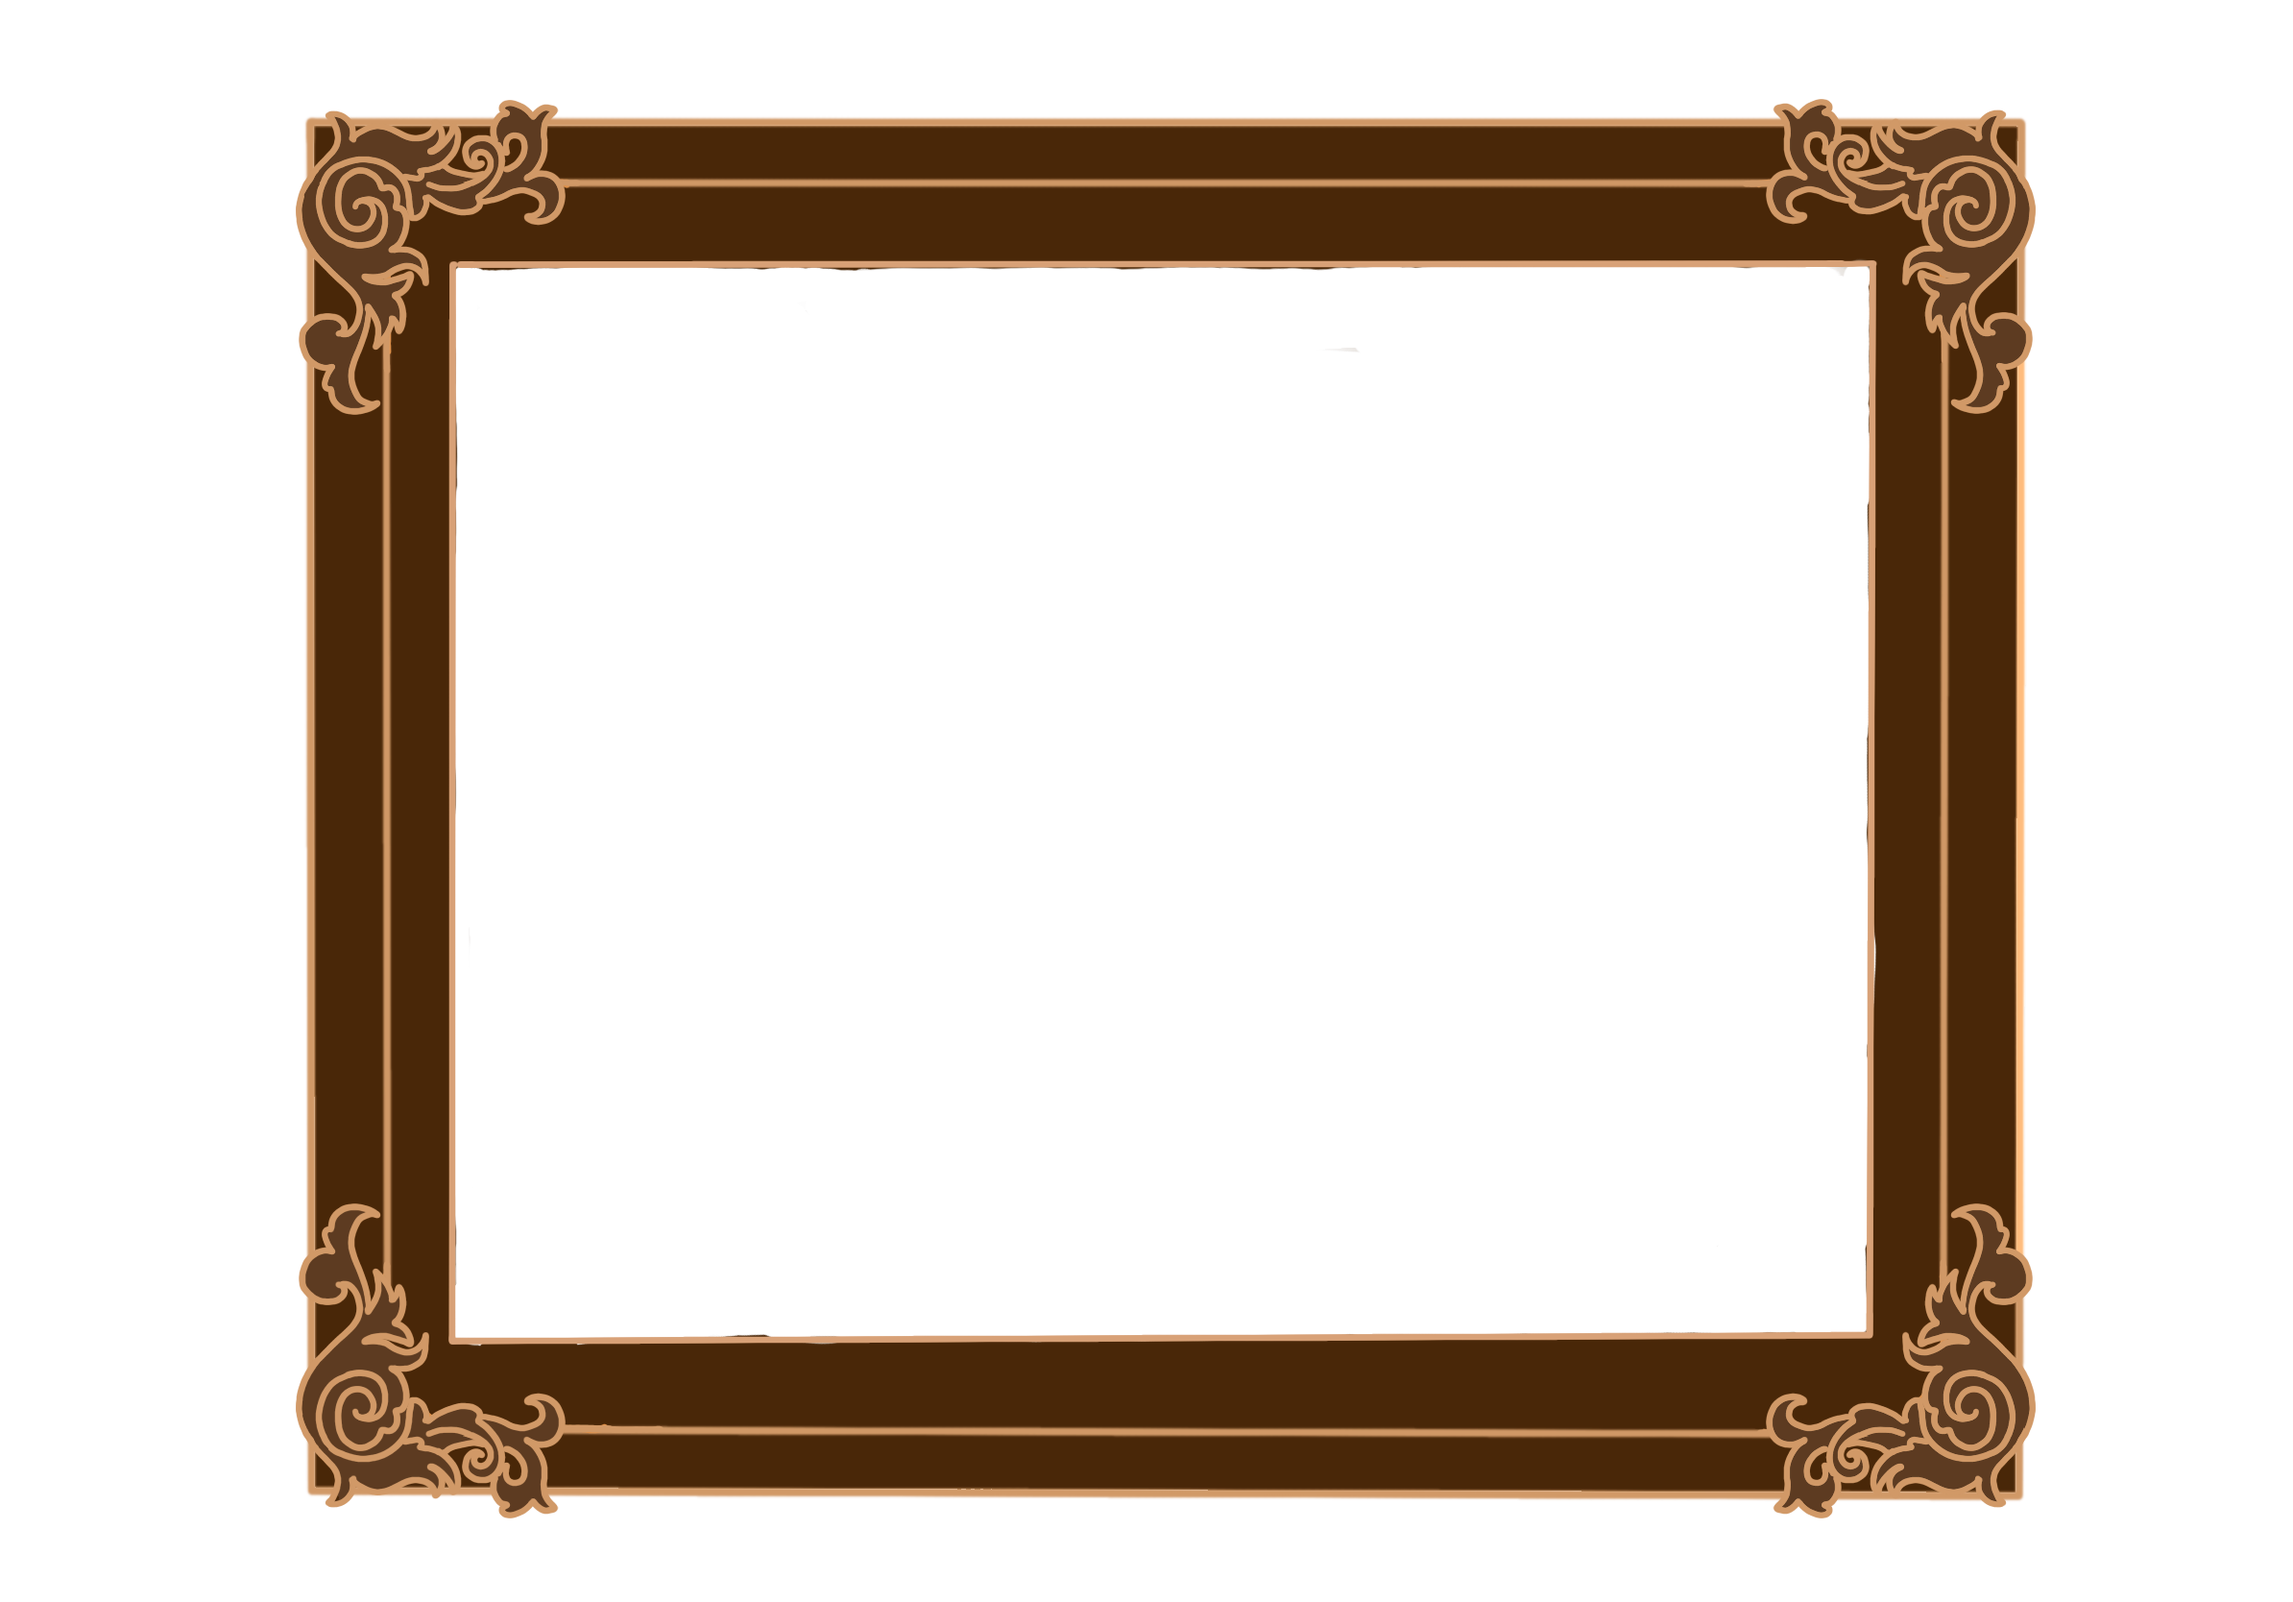
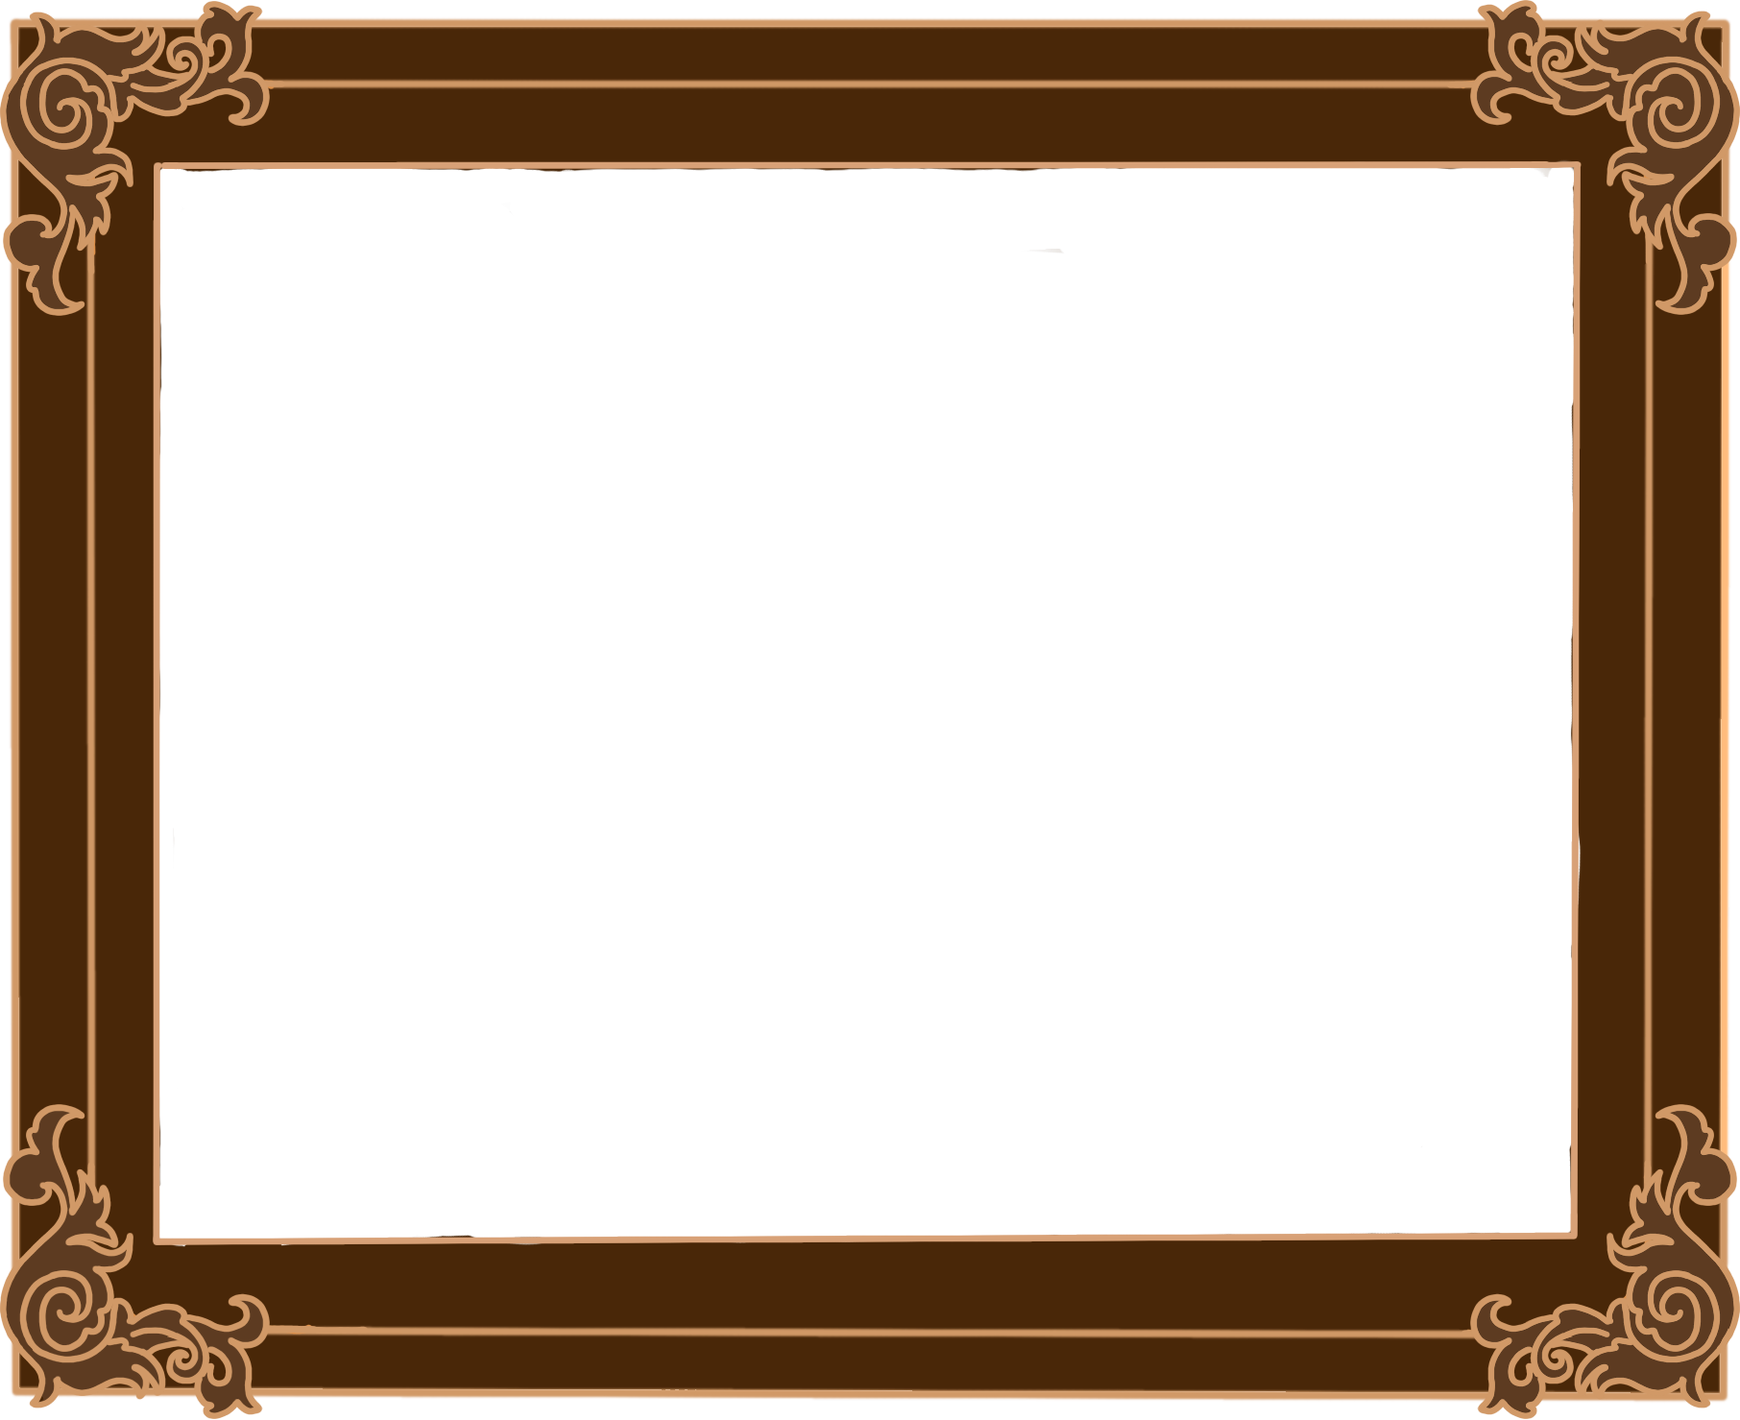
feat: add padding inside frame

diff --git a/src/components/atoms/Slider.svelte b/src/components/atoms/Slider.svelte
@@ -6,32 +6,55 @@
   function moveHandler(e: MouseEvent) {
     pageX = e.pageX
   }
+  $: console.log($progress, 'progress')
 </script>
 
 <style>
-  div {
+  .slider-container {
+    position: relative;
+    grid-row: 1 / span 1;
+    grid-column: 1 / span 1;
+    width: 100%;
+    height: 100%;
+  }
+  .slider-container > div {
     --progress: 0%;
     position: absolute;
-    top: 0px;
-    bottom: 0px;
+    top: 0;
+    bottom: 0;
     left: var(--progress);
     width: 0.33rem;
-    background: white;
-    border: 1px solid black;
-    z-index: 10;
+    background: rgb(73, 35, 0);
+    z-index: 40;
   }
 
-  div span {
+  .slider-container > div span {
+    --height: 3.5rem;
+    --width: 10rem;
+    display: block;
     position: absolute;
-    bottom: -40px;
+    bottom: calc(var(--height) * -1.4);
     transform: translateX(-50%);
+    z-index: 50;
     cursor: col-resize;
+    height: var(--height);
+    width: var(--width);
     pointer-events: auto;
+  }
+
+  span img {
+    height: 100%;
+    width: 100%;
+    object-fit: contain;
+    user-select: none;
+    pointer-events: none;
   }
 </style>
 
 <svelte:body on:mousemove={moveHandler} />
 
-<div use:slider={pageX} style="--progress: {$progress}%">
-  <span>Verschuif</span>
+<div class="slider-container">
+  <div use:slider={pageX} style="--progress: {$progress}%">
+    <span><img src="/slider.png" alt="Sleep mij!" /></span>
+  </div>
 </div>

diff --git a/src/components/atoms/Frame.svelte b/src/components/atoms/Frame.svelte
@@ -4,14 +4,30 @@
     top: 50%;
     left: 50%;
     transform: translate(-50%, -50%);
-    width: 48rem;
-    height: 36rem;
+    width: 56rem;
+    height: 44rem;
     display: grid;
+    background: #edeae4;
     grid-template-columns: 48rem;
     grid-template-rows: 36rem;
+    align-content: center;
+    justify-content: center;
+  }
+
+  img {
+    display: block;
+    position: fixed;
+    top: 50.6%;
+    left: 50%;
+    transform: translate(-50%, -50%);
+    width: 67rem;
+    height: 55.8rem;
+    z-index: 20;
+    object-fit: contain;
   }
 </style>
 
 <main>
+  <img src="/bg.png" alt="Fotoframe" aria-hidden="true" />
   <slot />
 </main>

diff --git a/src/components/molecules/Section.svelte b/src/components/molecules/Section.svelte
@@ -9,7 +9,7 @@
     position: relative;
     grid-column: 1 / span 1;
     grid-row: 1 / span 1;
-    width: 100%;
+    box-shadow: inset 0px 9px 16px 0px rgba(0, 0, 0, 1);
   }
 </style>
 

diff --git a/src/App.svelte b/src/App.svelte
@@ -12,7 +12,6 @@
   body {
     overflow: hidden;
     pointer-events: none;
-    background: url('/bg.png') no-repeat center/center fixed;
   }
 </style>
 

diff --git a/src/store/slider.ts b/src/store/slider.ts
@@ -1,3 +1,3 @@
 import { writable } from 'svelte/store'
 
-export const progress = writable<number>(0)
+export const progress = writable<number>(10)

diff --git a/src/components/atoms/Image.svelte b/src/components/atoms/Image.svelte
@@ -8,6 +8,7 @@
     width: 100%;
     height: 100%;
     object-fit: cover;
+    box-shadow: inset 0 0 5px 5px rgba(0, 0, 0, 0.5);
   }
 </style>
 

diff --git a/src/components/atoms/WallPaint.svelte b/src/components/atoms/WallPaint.svelte
@@ -5,7 +5,7 @@
 <css-doodle grid="10x30 / 20vmax">
   {`
     :doodle {
-      
+      background: #faf8e8;
     }
   `}
 </css-doodle>
